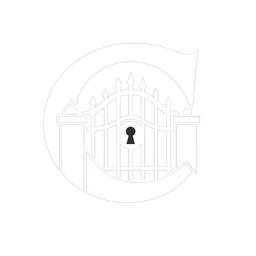
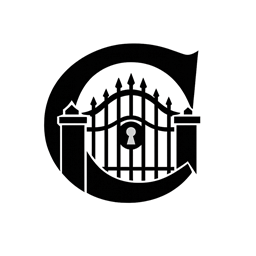
[feature/vscode-stable-release]
Prepare stable VS Code Marketplace release

Changed region(s): [[0.1562, 0.1562, 0.7812, 0.8125]]

diff --git a/docs/vscode-marketplace-release.md b/docs/vscode-marketplace-release.md
@@ -14,10 +14,11 @@ The VSIX is written to:
 artifacts/vscode/critical-gate-vscode.vsix
 ```
 
-The current alpha package is marked as a VS Code pre-release with `vsce --pre-release`.
+The VS Code extension is packaged as a stable Marketplace release.
 
-Visual Studio Marketplace requires the extension manifest version to be numeric, so the VS Code
-extension uses `0.1.0` even while the root CLI remains `0.1.0-alpha.0`.
+Visual Studio Marketplace requires the extension manifest version to be numeric. The VS Code
+extension is versioned independently from the root CLI package when needed so Marketplace releases
+can use numeric versions while the CLI follows the project release policy.
 
 ## Publish
 
@@ -28,7 +29,7 @@ $env:VSCE_PAT = "<token>"
 pnpm publish:vscode
 ```
 
-The script packages the extension first, then publishes the generated VSIX with `vsce --pre-release`.
+The script packages the extension first, then publishes the generated VSIX.
 
 ## Marketplace Metadata
 
@@ -38,7 +39,7 @@ Current public identity:
 
 - Publisher: `criticaldeveloper`
 - Extension name: `critical-gate`
-- Extension version: `0.1.0`
+- Extension version: `1.0.0`
 - Display name: `Critical Gate`
 - Extension ID: `criticaldeveloper.critical-gate`
 - Icon: `extensions/vscode/resources/icon.png`

diff --git a/extensions/vscode/CHANGELOG.md b/extensions/vscode/CHANGELOG.md
@@ -2,12 +2,12 @@
 
 This extension follows the project release policy in `../../docs/versioning-policy.md`.
 
-## 0.1.0 - 2026-06-18
+## 1.0.0 - 2026-06-18
 
-Pre-release Marketplace package for the `0.1.0-alpha.0` Critical Gate CLI line.
+Stable Marketplace package for the Critical Gate VS Code extension.
 
 - Add Critical Gate diagnostics command.
 - Add evidence and repair quick actions.
 - Add optional on-save refresh mode.
 - Add extension-host tests and VSIX artifact packaging.
-- Add Marketplace pre-release metadata and icon.
+- Add Marketplace metadata and inverted icon for dark Marketplace surfaces.